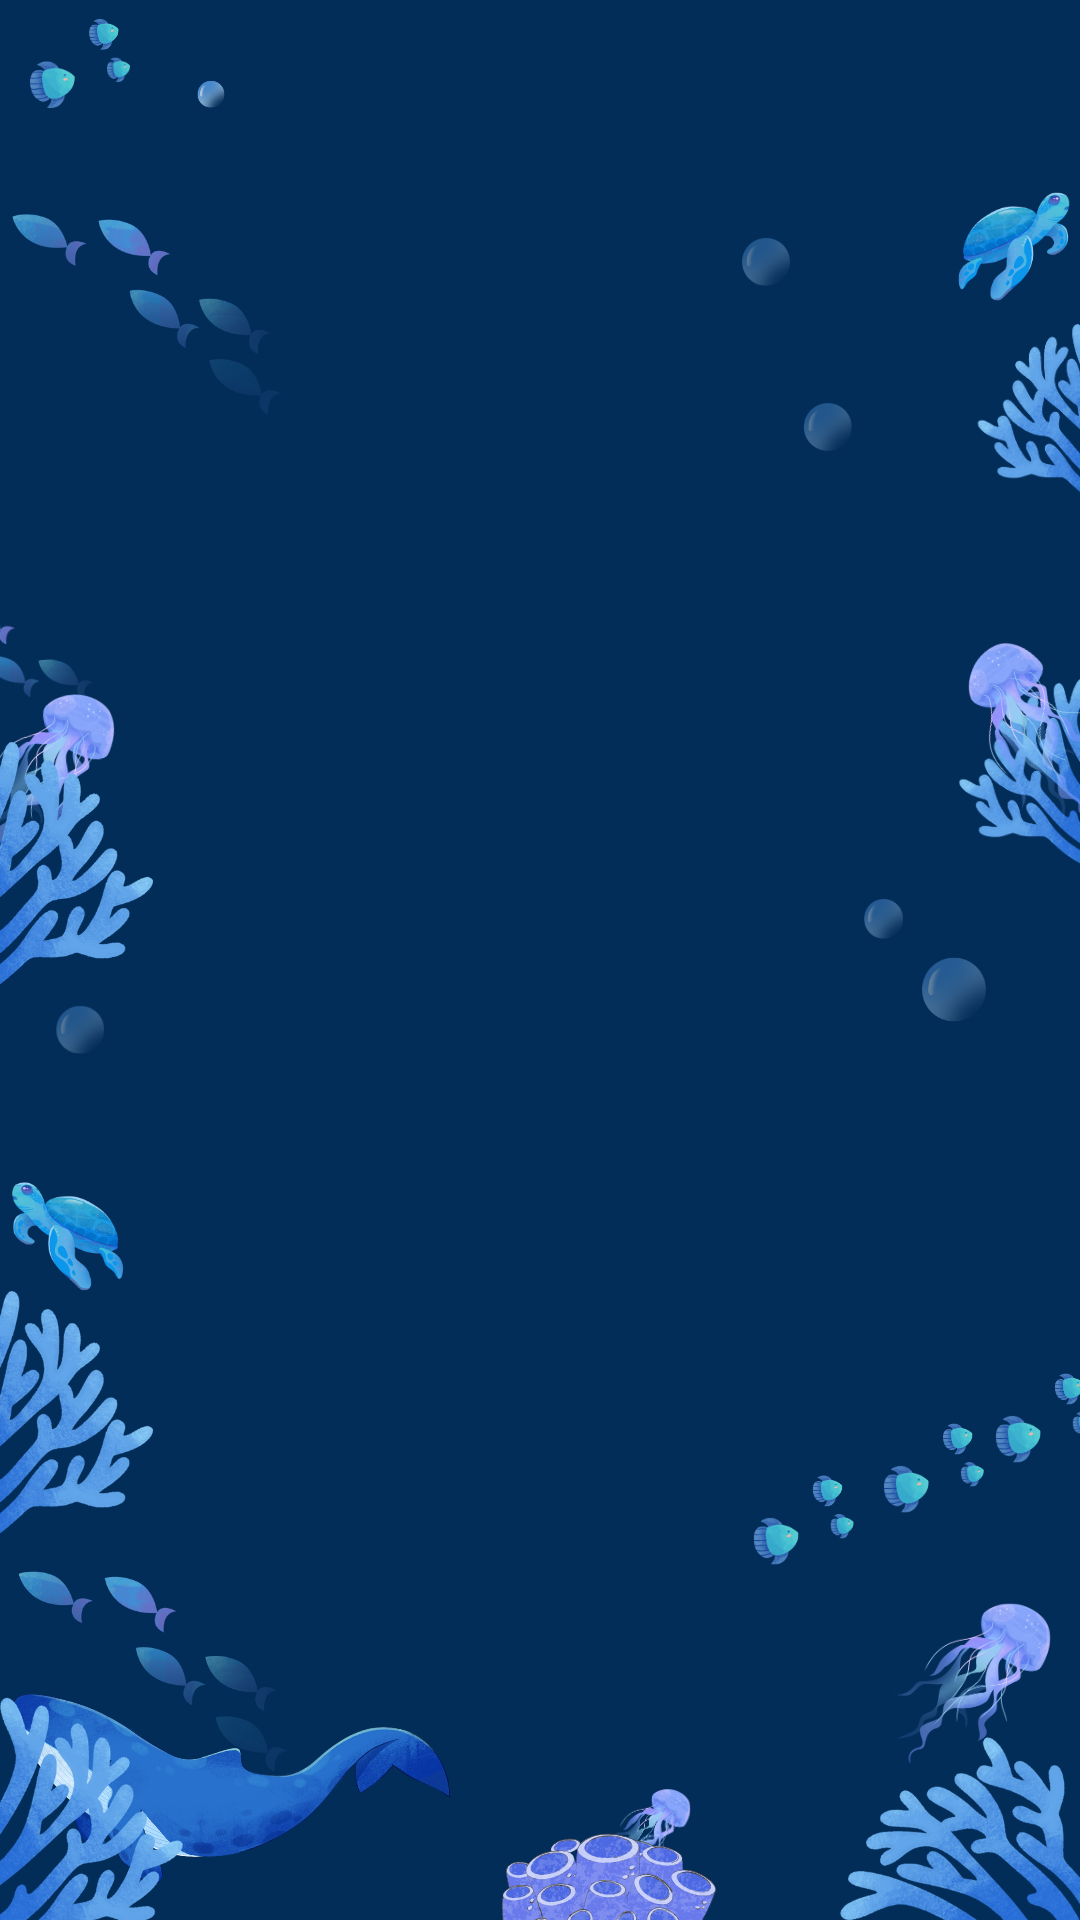
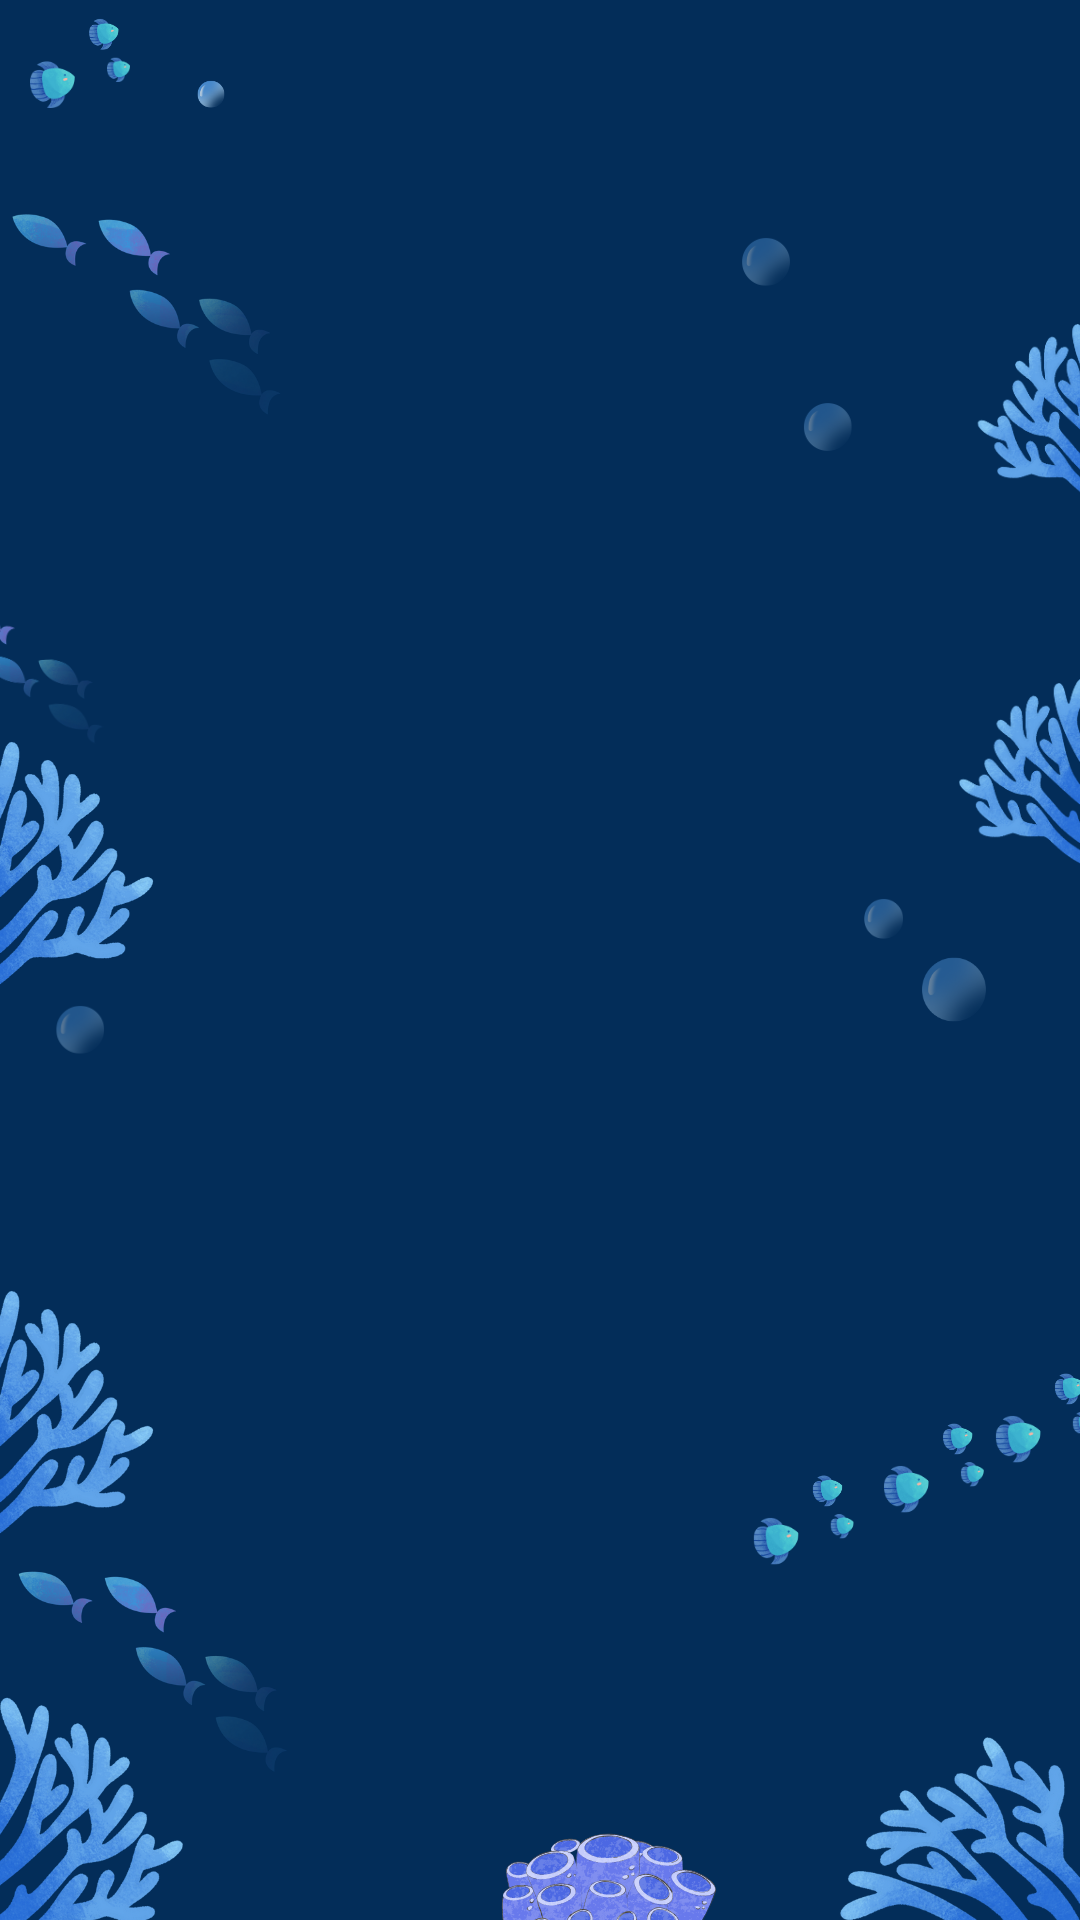
base html, updated image assets

diff --git a/index.html b/index.html
@@ -20,7 +20,32 @@
   </header>
 
   <main>
-    <p>Coming Soon!</p>
+    <ol>
+      <li>
+        <h3>Blue Whale</h3>
+        <ul>
+          <li>There is 1! 🐋</li>
+          <li><a href="https://en.wikipedia.org/wiki/Blue_whale" target="_blank">Find out more about Blue Whales here!</a></li>
+        </ul>
+      </li>
+    
+      <li>
+        <h3>Sea Turtle</h3>
+        <ul>
+          <li>There are 2! 🐢🐢</li>
+          <li><a href="https://en.wikipedia.org/wiki/Sea_turtle" target="_blank">Find out more about Sea Turtles here!</a></li>
+        </ul>
+      </li>
+    
+      <li>
+        <h3>Ocean Jellyfish</h3>
+        <ul>
+          <li>There are 2! 🪼🪼</li>
+          <li><a href="https://en.wikipedia.org/wiki/Jellyfish" target="_blank">Find out more about Ocean Jellyfish here!</a></li>
+        </ul>
+      </li>
+    </ol>
+
   </main>
 
   <footer>
